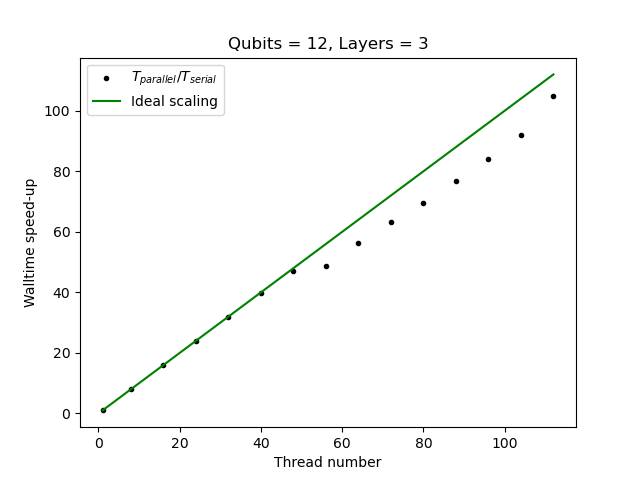
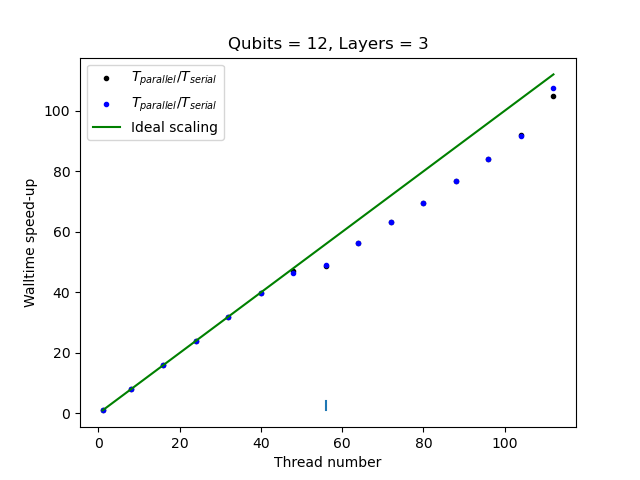
minor chnages

diff --git a/benchmark_hpc/bench_out/plot_threads.py b/benchmark_hpc/bench_out/plot_threads.py
@@ -6,19 +6,25 @@ import matplotlib.pyplot as plt
 
 
 nqubits = 12
-nlayers = 7
+nlayers = 3
 ulayers = 601
 
 script_dir = os.path.dirname(__file__)
 data_dir   = os.path.join(script_dir, f"q{nqubits}")
 
 
-file_list1 = glob.glob(f"{data_dir}/n{nlayers}_q{nqubits}_u{ulayers}_th*_010*.hdf5")
-file_list2 = glob.glob(f"{data_dir}/n{nlayers}_q{nqubits}_u{ulayers}_th*_110*.hdf5")
+file_list1 = glob.glob(f"{data_dir}/n{nlayers}_q{nqubits}_u{ulayers}_th*_010_*threads*.hdf5")
+file_list2 = glob.glob(f"{data_dir}/n{nlayers}_q{nqubits}_u{ulayers}_th*_110_*threads*.hdf5")
 
 if nqubits != 16:
     file_list1.append(glob.glob(f"{data_dir}/n{nlayers}_q{nqubits}_u{ulayers}_0*serial*.hdf5")[0])
     file_list2.append(glob.glob(f"{data_dir}/n{nlayers}_q{nqubits}_u{ulayers}_1*serial*.hdf5")[0])
+
+critical = False
+if critical:
+    file_list3 = glob.glob(f"{data_dir}/n{nlayers}_q{nqubits}_u{ulayers}_th*_010_critical_matchgate*.hdf5")
+    file_list3.append(glob.glob(f"{data_dir}/n{nlayers}_q{nqubits}_u{ulayers}_0*serial*.hdf5")[0])
+
 
 wtime1 = []
 threads1 = []
@@ -36,6 +42,23 @@ for file1, file2 in zip(file_list1, file_list2):
         threads2.append(f.attrs["NUM_THREADS"])
 
 
+if critical: 
+    wtime3 = []
+    threads3 = []
+
+    for file in file_list3:
+        with h5py.File(file, "r") as f:
+            wtime3.append(f.attrs["Walltime"])
+            threads3.append(f.attrs["NUM_THREADS"])
+    
+    xy = zip(threads3, wtime3)
+    xy_sorted = sorted(xy, key = lambda pair: pair[0])
+    threads3_sorted, wtime3_sorted = zip(*xy_sorted) 
+
+    wtime3 = np.array(wtime3_sorted)
+    threads3 = np.array(threads3_sorted)
+    
+    
 xy1 = zip(threads1, wtime1)
 xy2 = zip(threads2, wtime2)
 
@@ -57,6 +80,8 @@ for a, b, c in zip(threads1, wtime1, wtime2):
 fig, ax = plt.subplots()
 
 ax.scatter(threads1, wtime1[0]/wtime1, marker=".", label = "$T_{parallel}/T_{serial}$", color = "black")
+#ax.scatter(threads3, wtime3[0]/wtime3, marker=".", label = "$T_{parallel}/T_{serial}$", color = "blue")
+
 ax.plot(threads1, threads1, label = "Ideal scaling", color = "green")
 ax.plot([56, 56], [1, 4])
 
@@ -69,19 +94,19 @@ ax.legend()
 fig.savefig(f"{data_dir}/plots/n{nlayers}_q{nqubits}_u{ulayers}_thread_scaling.png")
 
 
-fig, ax = plt.subplots()
+# fig, ax = plt.subplots()
 
-#ax.scatter(threads1, wtime1, marker=".", label = "Matchgates", color = "black")
-ax.scatter(threads2, (wtime1 - wtime2)/wtime1, marker=".", label = "Matchgates + Invariance", color = "green")
+# #ax.scatter(threads1, wtime1, marker=".", label = "Matchgates", color = "black")
+# ax.scatter(threads2, (wtime1 - wtime2)/wtime1, marker=".", label = "Matchgates + Invariance", color = "green")
 
 
-ax.set_xlabel("Thread number")
-ax.set_ylabel("Walltime (s)")
+# ax.set_xlabel("Thread number")
+# ax.set_ylabel("Walltime (s)")
 
-ax.set_title(f"Qubits = {nqubits}, Layers = {nlayers}")
+# ax.set_title(f"Qubits = {nqubits}, Layers = {nlayers}")
 
-ax.legend()
-fig.savefig(f"{data_dir}/plots/n{nlayers}_q{nqubits}_u{ulayers}_invariance_scaling.png")
+# ax.legend()
+# fig.savefig(f"{data_dir}/plots/n{nlayers}_q{nqubits}_u{ulayers}_invariance_scaling.png")
 
 
     

diff --git a/benchmark_hpc/plot_speedup.py b/benchmark_hpc/plot_speedup.py
@@ -12,9 +12,9 @@ ulayers = 601
 script_dir = os.path.dirname(__file__)
 
 
-file_list1 = glob.glob(f"{script_dir}/bench_out/q{nqubits}/n{nlayers}_q{nqubits}_u{ulayers}_th*_010*.hdf5")
-file_list2 = glob.glob(f"{script_dir}/bench_out/q{nqubits}/n{nlayers}_q{nqubits}_u{ulayers}_th*_110*.hdf5")
-file_list3 = glob.glob(f"{script_dir}/bench_out_mat4x4/q{nqubits}/n{nlayers}_q{nqubits}_u{ulayers}_th*_010*.hdf5")
+file_list1 = glob.glob(f"{script_dir}/bench_out/q{nqubits}/n{nlayers}_q{nqubits}_u{ulayers}_th*_010_*threads*.hdf5")
+file_list2 = glob.glob(f"{script_dir}/bench_out/q{nqubits}/n{nlayers}_q{nqubits}_u{ulayers}_th*_110_*threads*.hdf5")
+file_list3 = glob.glob(f"{script_dir}/bench_out_mat4x4/q{nqubits}/n{nlayers}_q{nqubits}_u{ulayers}_th*_010_matchgate*.hdf5")
 
 
 if nqubits != 16:
